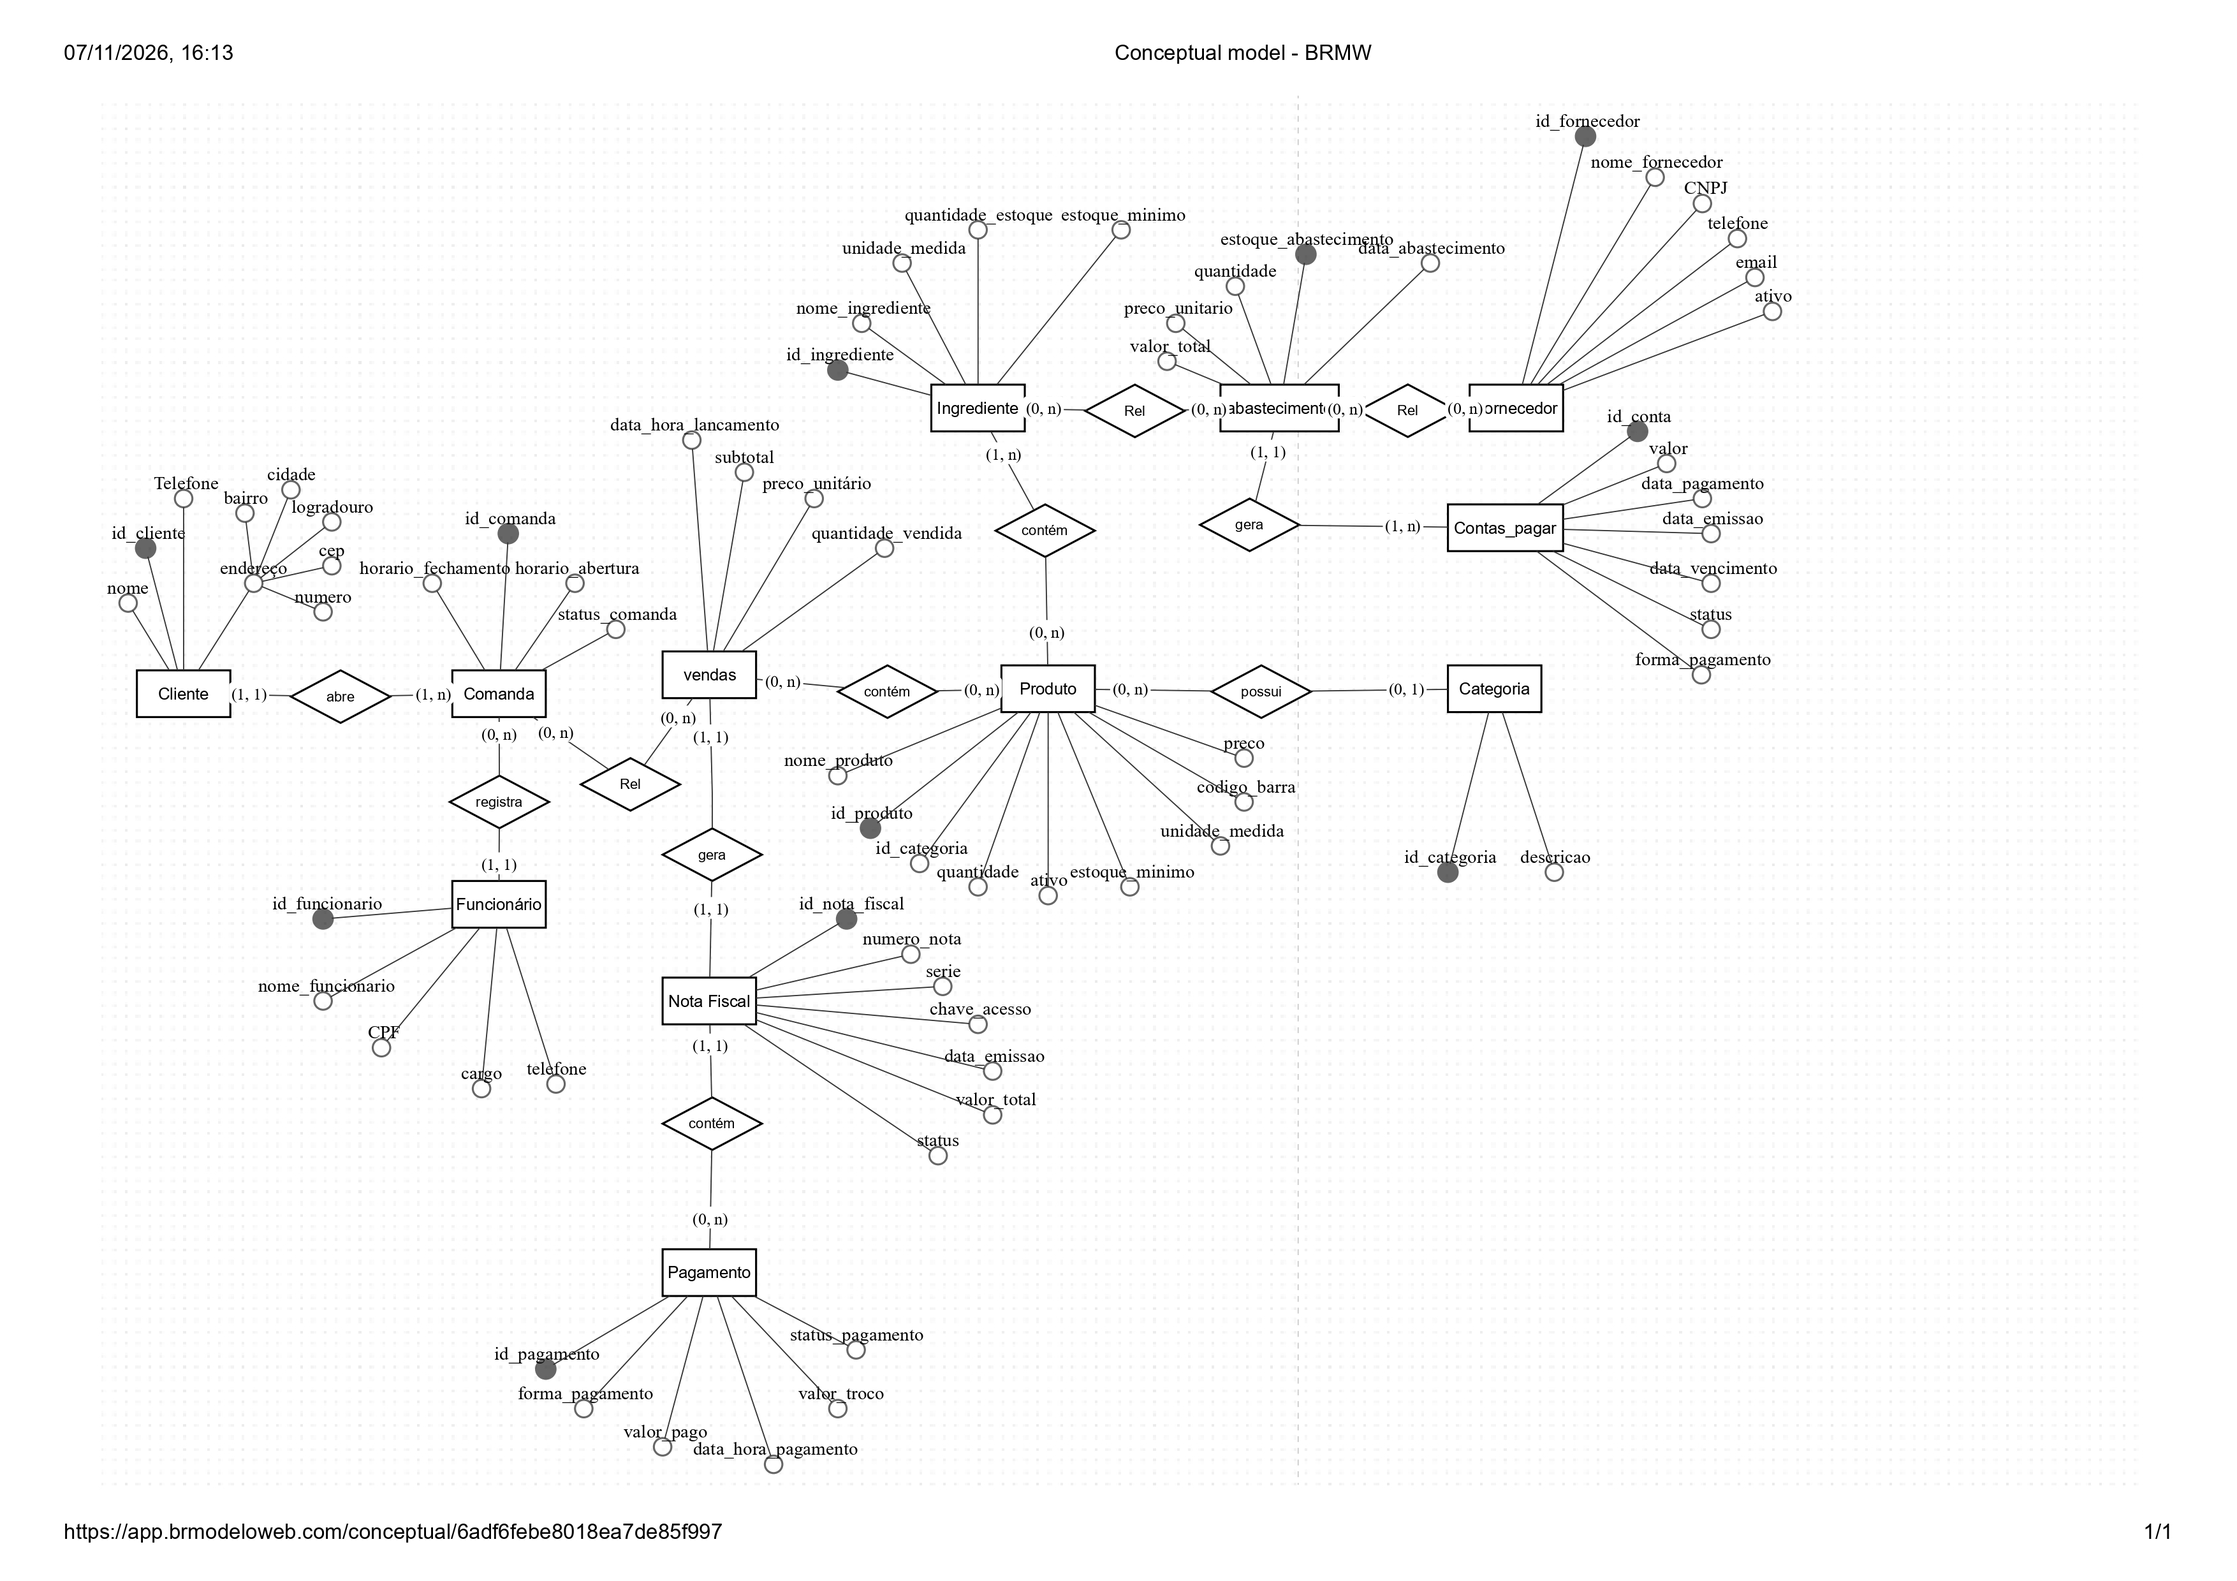
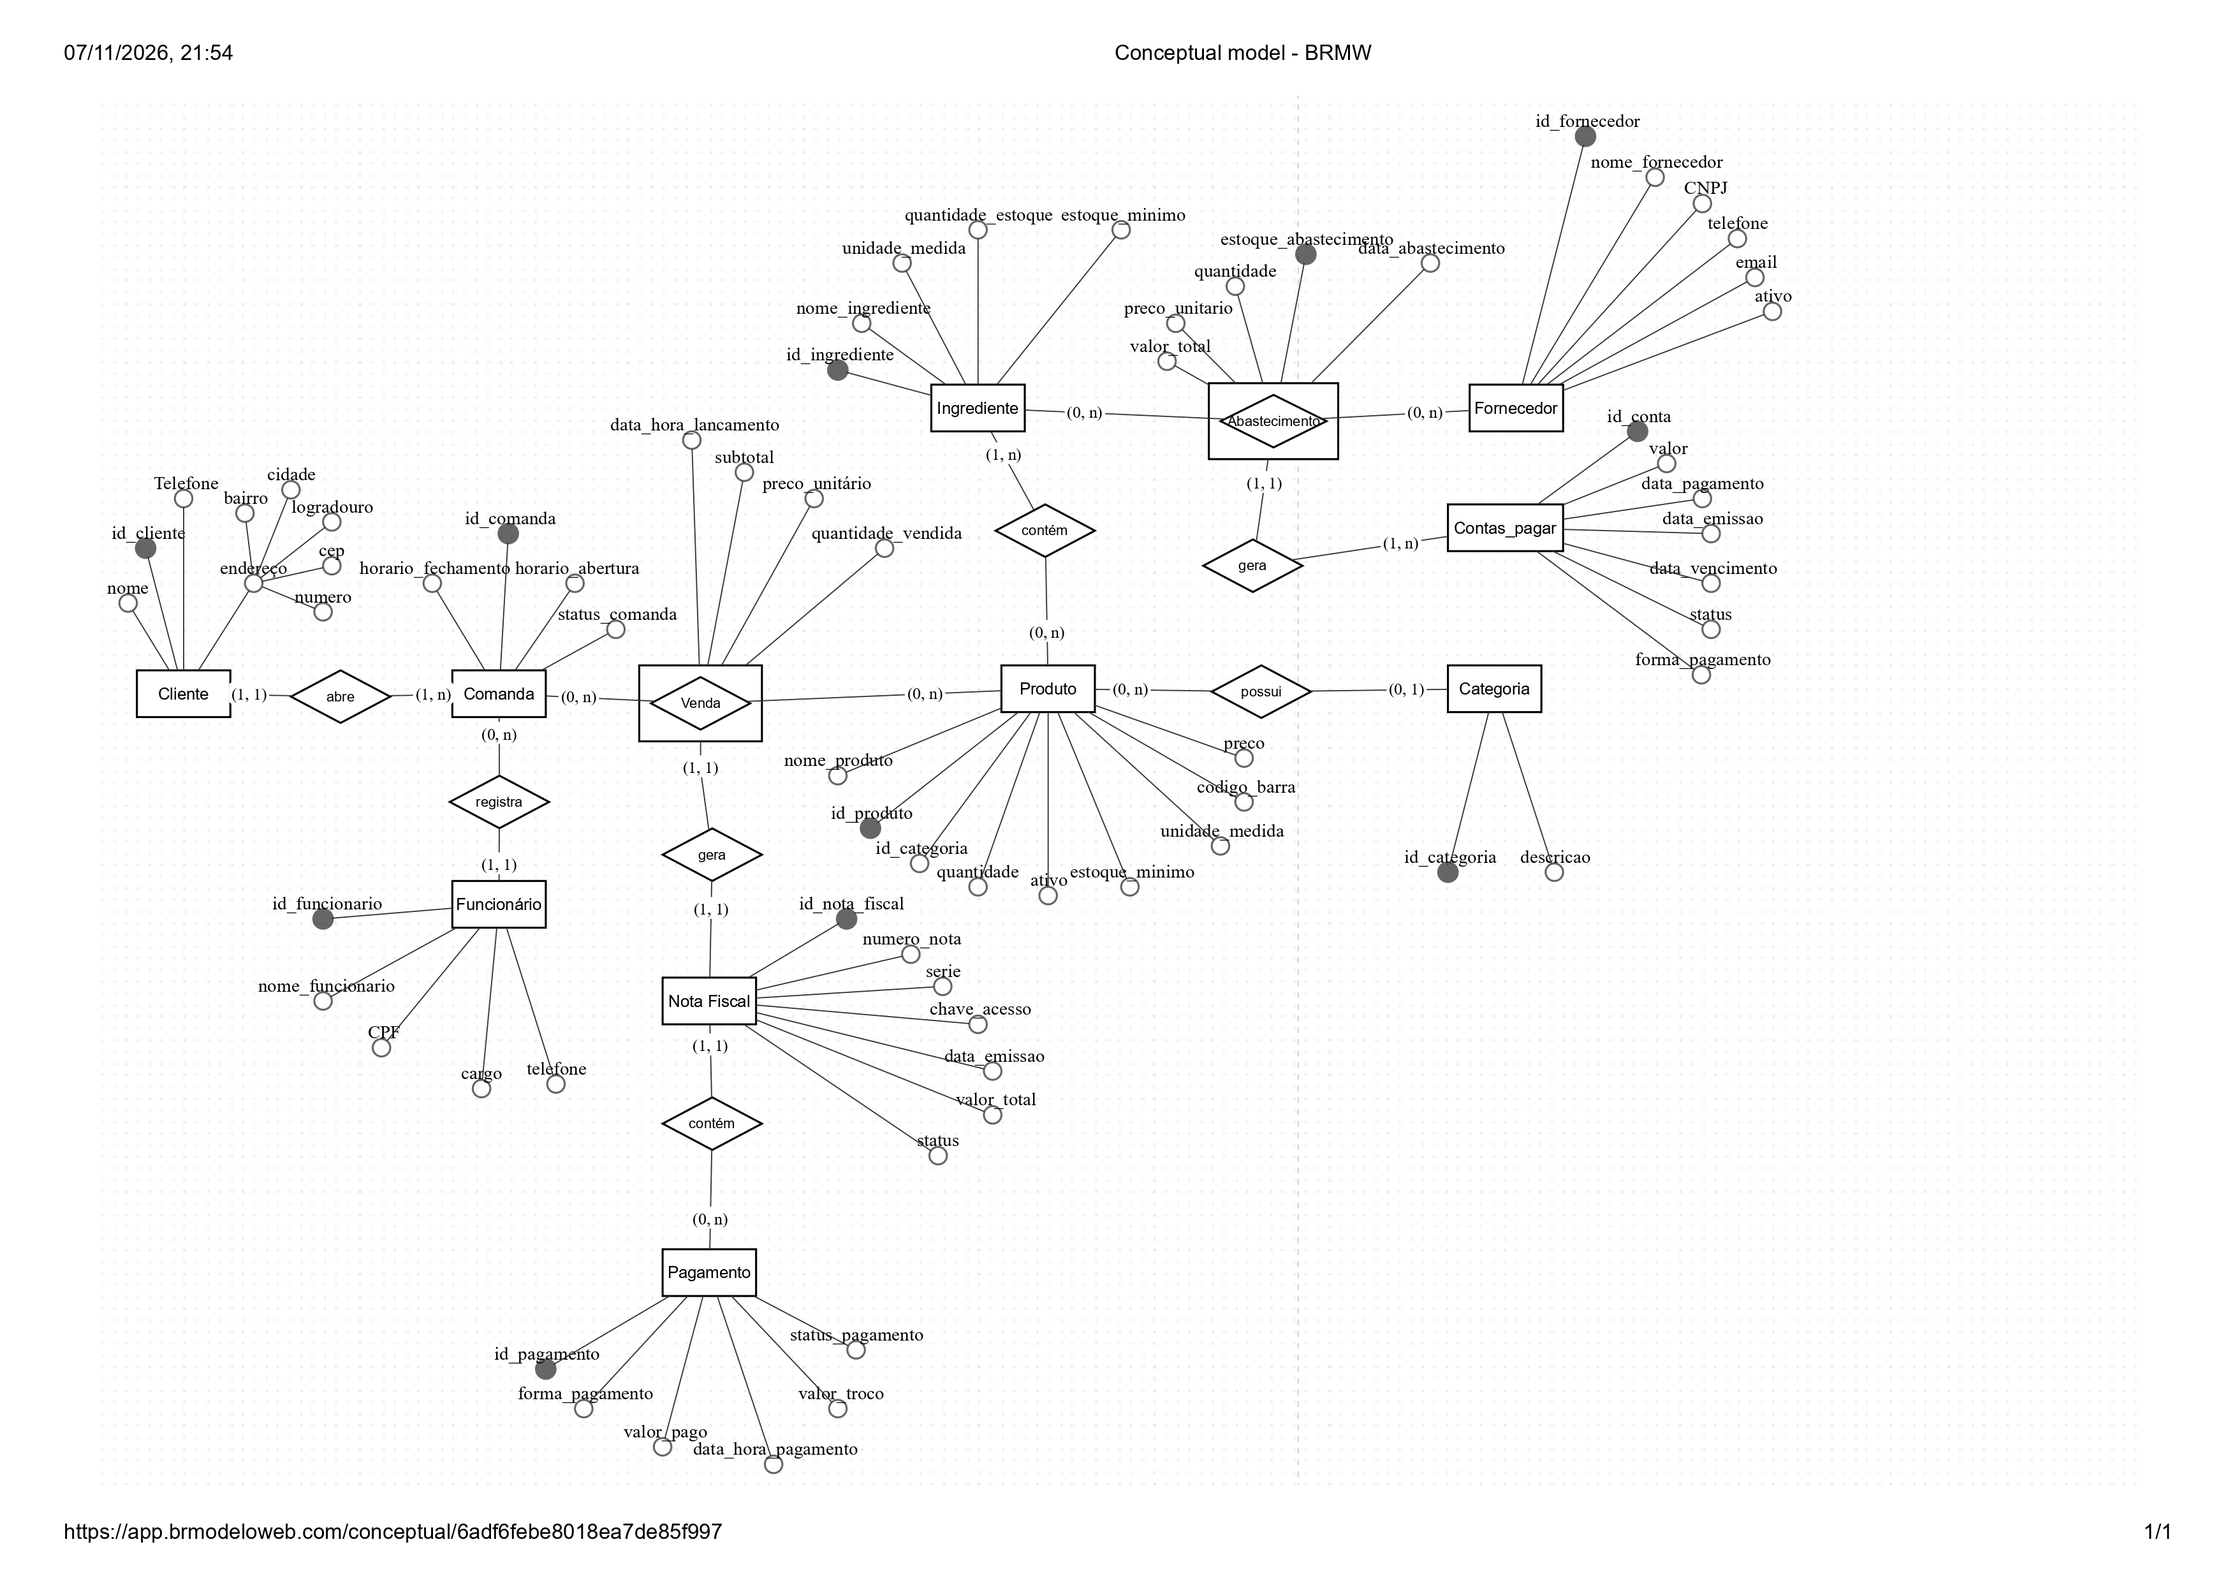
atualização processo de negocio

Changed region(s): [[0.4661, 0.2174, 0.6525, 0.3727], [0.2796, 0.3727, 0.3418, 0.497], [0.3729, 0.4349, 0.435, 0.4659]]

diff --git a/README.md b/README.md
@@ -51,17 +51,6 @@
 - **Comprovação:** ao menos uma foto da entrevista no local, como arquivo JPG ou PNG no repositório.  
 - **O que foi levantado:** o que foi perguntado, o que foi confirmado e, se houve nova visita, o que mudou em relação à Entrega 1 (processos, regras, volumes, problemas). O levantamento completo fica em **um arquivo Markdown (`.md`) à parte no repositório**, com link no README — **recomenda-se fortemente** colocá-lo numa pasta chamada **`levantamento`** (ex.: `levantamento/levantamento.md`). Esse arquivo é um **texto organizado, escrito pelo grupo**, sobre o que foi levantado — **não** é um vídeo ou áudio da entrevista, nem a transcrição crua de formulários ou de perguntas e respostas. **No README, apresente um resumo do levantamento.**
 
-**Nível de detalhe — processos, requisitos e regras de negócio (todos os grupos)**
-
-*Frases genéricas como "o sistema deve permitir cadastrar cliente" são **superficiais** e não bastam. Em processos, requisitos e regras, indique **quais dados** estão envolvidos — todos os campos que aparecem no trabalho (DER, dicionário de dados, modelo lógico):*
-
-| Superficial | Detalhado |
-| :---- | :---- |
-| *O sistema deve permitir cadastrar cliente.* | *RF03 — O sistema deve permitir cadastrar cliente com nome completo, CPF, telefone, e-mail e endereço (logradouro, número, bairro, CEP).* |
-| *O cliente faz o pedido.* | *O garçom anota no pedido a mesa, o número da pulseira do cliente e, para cada item, o produto, a quantidade e as observações.* |
-| *O cliente precisa estar cadastrado.* | *RN05 — Todo cliente deve ter CPF válido e único; telefone e nome completo são obrigatórios.* |
-
-&nbsp;
 
 **Processos de negócio (todos os grupos)**
 
@@ -85,15 +74,20 @@ Nesta seção, descrevem-se os principais fluxos operacionais mapeados na rotina
 6. **Cadastro de Clientes para Entregas:**
    Processo voltado para o atendimento na modalidade de *delivery* ou encomendas externas. Quando o cliente solicita um pedido fora do salão, a equipe realiza o registro dos dados cadastrais essenciais: **nome, telefone de contato e endereço completo**, garantindo a rastreabilidade logística e o histórico de atendimento.
 
-7. **Produção própria de pães e doces**
+7. **Produção própria de pães e doces:**
+   Processo operacional realizado na cozinha e na área de panificação, responsável por transformar insumos em produtos prontos para venda. A produção segue receitas padronizadas que definem os ingredientes e as quantidades necessárias para cada item. A equipe registra o que foi produzido, a quantidade e a data, e os ingredientes consumidos são baixados do estoque. Os produtos fabricados entram no estoque de pães e doces, ficando disponíveis para o atendimento no salão e no balcão.
 
-8. **Compra de insumos e cadastro de fornecedores**
+8. **Compra de insumos e cadastro de fornecedores:**
+   Processo administrativo de reposição de matérias-primas e mercadorias de revenda (farinha, laticínios, frios, bebidas, entre outros). Antes da primeira compra, cada fornecedor é cadastrado com razão social, CNPJ, telefone, e-mail e endereço. A necessidade de compra é identificada a partir do controle de estoque, e o pedido é emitido ao fornecedor com os itens, as quantidades e o valor negociado. O valor da compra gera uma obrigação financeira, registrada em contas a pagar com vencimento e situação de pagamento.
 
-9. **Recebimento da mercadoria**
+9. **Recebimento da mercadoria:**
+   Rotina de conferência das entregas realizadas pelos fornecedores. No ato da entrega, o responsável compara os itens recebidos com o pedido de compra e a nota fiscal do fornecedor, verificando quantidade, qualidade, temperatura (quando aplicável) e prazo de validade. Mercadorias conformes são lançadas no estoque, e divergências ou avarias são registradas para devolução ou reclamação. Esse processo liga o pedido de compra à entrada efetiva de produtos no estoque.
 
-10. **Escala de turnos dos 25 colaboradores**
+10. **Escala de turnos dos 25 colaboradores:**
+   Processo de gestão de pessoal que organiza a jornada dos 25 colaboradores de modo a cobrir as 15 horas diárias de funcionamento (07:00h às 22:00h). A escala define, para cada colaborador, o setor (atendimento, caixa, cozinha, panificação, limpeza), o dia, o turno e o horário de entrada e saída. Ela é elaborada previamente, considerando folgas e a demanda de cada período, e permite identificar quem estava responsável por cada setor em determinado horário.
 
-11. **Controle de validade e perdas**
+11. **Controle de validade e perdas:**
+   Rotina de verificação periódica das datas de validade dos produtos e insumos estocados, com atenção especial aos perecíveis (laticínios, frios, pães e doces). Itens vencidos, danificados ou produzidos em excesso e não vendidos são retirados de circulação e registrados como perda, com produto, quantidade, data e motivo. Esse registro dá baixa no estoque e fornece dados para ajustar compras e produção, reduzindo o desperdício.
 
 **Requisitos (todos os grupos)**
 
@@ -117,27 +111,24 @@ Nesta seção, descrevem-se os principais fluxos operacionais mapeados na rotina
 
 - **Regras operacionais:** 
 
-  - Um cliente só pode entrar no estabelecimento se estiver com a comanda em mãos, e só pode pagar a comanda no caixa.
-  - O caixa só pode ser aberto por um funcionário autorizado, e só pode ser fechado quando não houver nenhum cliente dentro da loja.
-  - Todas as comandas devem ser registradas no sistema, e só podem ser fechadas quando o cliente for pagar a comanda.
-  - Um produto só pode ser registrado no sistema se estiver cadastrado no estoque, e só pode ser vendido se houver quantidade suficiente em estoque.
-  - Uma comanda só pode ser liberada para um novo cliente após o pagamento total dos itens consumidos.
-  - Multa por perda da comanda.
-  - Preço por quilo no self-service.
-  - Taxa e raio de entrega.
-  - Descarte de produtos vencidos.
-  - Normas sanitárias de manipulação.
-  - Emissão de cupom fiscal.
-  - LGPD para CPF e endereço de clientes.
-- **Restrições organizacionais:** 
-
-  - Política de Controle de Acesso e Auditoria: O sistema deve implementar um mecanismo de autenticação robusto, garantindo que apenas funcionários autorizados possam acessar funcionalidades críticas, como abertura e fechamento de caixa, registro de vendas e alterações de estoque.
-  - Política de Liquidação Integral (Bloqueio de Reuso de Comanda): O sistema deve impedir que uma comanda seja reutilizada ou reaberta para um novo cliente até que o pagamento integral de todos os itens registrados tenha sido confirmado e processado, assegurando a integridade financeira das transações.
+ - RN01: Cliente só circula no salão com a comanda numerada; a saída só é liberada após o pagamento.
+ - RN02: Caixa só é aberto por funcionário autorizado, com registro do fundo de troco.
+ - RN03: Caixa só é fechado sem comandas abertas pendentes; o fechamento exige conciliação do valor apurado.
+ - RN04: Todo consumo é registrado no sistema; a comanda só é encerrada no momento do pagamento.
+ - RN05: Produto só é lançado se estiver cadastrado, e só é vendido se houver saldo suficiente em estoque.
+ - RN06: Comanda só é liberada para novo cliente após o pagamento total dos itens.
+ - RN07: Perda da comanda gera multa, registrada com motivo e funcionário responsável.
+ - RN08: No self-service, o valor é calculado pelo peso líquido multiplicado pelo preço por quilo vigente.
+ - RN09: Delivery só atende endereços dentro do raio definido, com cobrança de taxa de entrega.
+ - RN10: Produto vencido ou avariado é descartado, registrado como perda e baixado do estoque.
+ - RN11: Manipulação de alimentos segue as normas sanitárias (higiene, temperatura e rastreio de lotes).
+ - RN12: Toda venda paga gera cupom fiscal, com CPF na nota somente se o cliente solicitar.
+ - RN13: CPF e endereço de clientes são tratados conforme a LGPD, com finalidade definida e acesso restrito.
 ---
 
 | Apontamento da correção da E1 | O que mudou no trabalho | Por quê |
 | :---- | :---- | :---- |
-| *ex.: N:N entre PEDIDO e PRODUTO sem quantidade* | *criada a entidade associativa ITEM\_PEDIDO com quantidade e preço praticado* | *sem ela não é possível saber quanto de cada produto foi vendido* |
+| *a* | *criada a entidade associativa ITEM\_PEDIDO com quantidade e preço praticado* | *sem ela não é possível saber quanto de cada produto foi vendido* |
 | *ex.: chaves estrangeiras desenhadas no DER* | *removidas — passam a aparecer só no modelo lógico (seção 2\)* | *FK é decisão do modelo lógico, não do conceitual* |
 
 &nbsp;
@@ -164,19 +155,19 @@ Nesta seção, descrevem-se os principais fluxos operacionais mapeados na rotina
 
 | Tabela	| Chave primária | Chaves estrangeiras |
 | :---- | :---- | :---- |
-| Cliente |	id_cliente | nenhuma |	
-| Categoria | id_categoria | nenhuma |	
-| Funcionário |	id_funcionario | nenhuma |
-| Fornecedor | id_fornecedor | nenhuma |	
-| Ingrediente |	id_ingrediente | nenhuma |	
-| Comanda |	id_comanda | id_cliente → Cliente, id_funcionario → Funcionário |
-| Produto |	id_produto | id_categoria → Categoria |
-| Venda	| (id_comanda, id_produto) | id_comanda → Comanda, id_produto → Produto	|
-| Nota Fiscal |	id_nota_fiscal | id_venda → Venda (1:1, com UNIQUE) |
-| Pagamento | id_pagamento | id_nota_fiscal → Nota Fiscal |
-| Produto_Ingrediente |	(id_produto, id_ingrediente) | id_produto → Produto, id_ingrediente → Ingrediente |
-| Abastecimento | id_abastecimento | id_ingrediente → Ingrediente, id_fornecedor → Fornecedor |
-| Contas_pagar | id_conta |	id_abastecimento → Abastecimento |
+| Cliente |	`id_cliente` | nenhuma |	
+| Categoria | `id_categoria` | nenhuma |	
+| Funcionário |	`id_funcionario` | nenhuma |
+| Fornecedor | `id_fornecedor` | nenhuma |	
+| Ingrediente |	`id_ingrediente` | nenhuma |	
+| Comanda |	`id_comanda` | id_cliente → Cliente, id_funcionario → Funcionário |
+| Produto |	`id_produto` | id_categoria → Categoria |
+| Venda	| `(id_comanda, id_produto)` | id_comanda → Comanda, id_produto → Produto	|
+| Nota Fiscal |	`id_nota_fiscal` | id_venda → Venda (1:1, com UNIQUE) |
+| Pagamento | `id_pagamento` | id_nota_fiscal → Nota Fiscal |
+| Produto_Ingrediente |	`(id_produto, id_ingrediente)` | id_produto → Produto, id_ingrediente → Ingrediente |
+| Abastecimento | `id_abastecimento` | id_ingrediente → Ingrediente, id_fornecedor → Fornecedor |
+| Contas_pagar | `id_conta` |	id_abastecimento → Abastecimento |
 
 ### 1.4 Processo de Normalização (1FN, 2FN e 3FN)
 
@@ -224,33 +215,9 @@ Nesta seção, descrevem-se os principais fluxos operacionais mapeados na rotina
 
 ## 2\. Modelo Lógico Relacional
 
-*(diagrama separado — vale 10% na Dimensão Procedimental)*
+O modelo lógico foi desenvolvido com o Brmodelo.
 
-O modelo lógico deve seguir a **notação visual do brModelo** para o modelo lógico, como no exemplo abaixo. Informe no README **em qual software ou aplicativo ele foi criado**.
-
-![Exemplo de modelo lógico na notação do brModelo](Exemplo_Logico.png)
-
-| Elemento | Como aparece | No exemplo |
-| :---- | :---- | :---- |
-| **Tabela** | retângulo com o nome da tabela no topo e uma linha por coluna | `Entity 1`, `Entity 5` |
-| **Coluna** | nome da coluna, à esquerda, com o tipo de dado à direita | `Attribute 30` — `INT` |
-| **Chave primária** | marca `PK` ao lado do tipo | `Chave 1`, em `Entity 1`; `Chave 50` \+ `Chave 51`, em `Entity 5` (chave primária composta) |
-| **Chave estrangeira** | marca `FK` ao lado do tipo | `Chave 3`, em `Entity 4` |
-| **Coluna que é chave primária e estrangeira** | marcas `PK, FK` | `Chave 1`, em `Entity 2` |
-| **Ligação entre tabelas** | linha entre a tabela da FK e a tabela referenciada, com a cardinalidade `(mín, máx)` em cada ponta | `Entity 3` — `Entity 4`: `(1, 1)` e `(0, n)` |
-
-&nbsp;
-
-Deve apresentar claramente:
-
-- Tabelas  
-- Atributos (colunas), com seus tipos de dados  
-- Chaves primárias  
-- Chaves estrangeiras  
-- Cardinalidades já convertidas
-
-As **demais restrições de integridade** — obrigatoriedade (`NOT NULL`), unicidade (`UNIQUE`), valores permitidos (`CHECK`), valores padrão (`DEFAULT`) — não aparecem no diagrama do brModelo e devem ser documentadas no **dicionário de dados** (seção 5\) e implementadas no **script SQL** (seção 3).
-
+<img width="500" height="350" alt="Image" src="modelo_logico.jpg"/>
 ---
 
 ## 3\. Script SQL Completo
